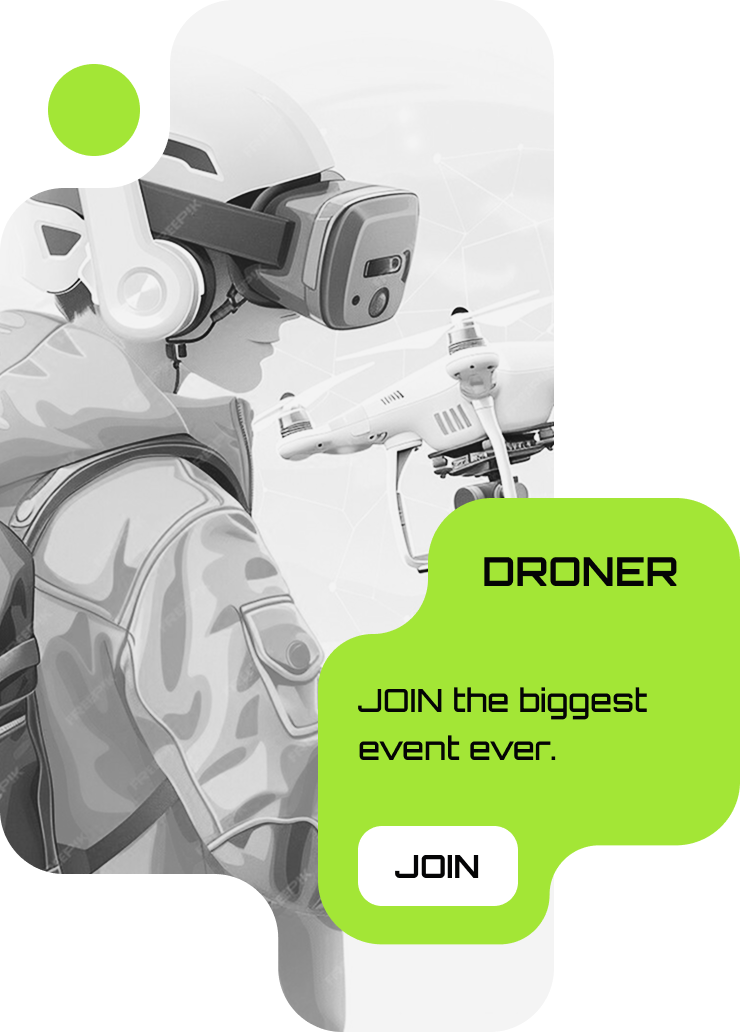
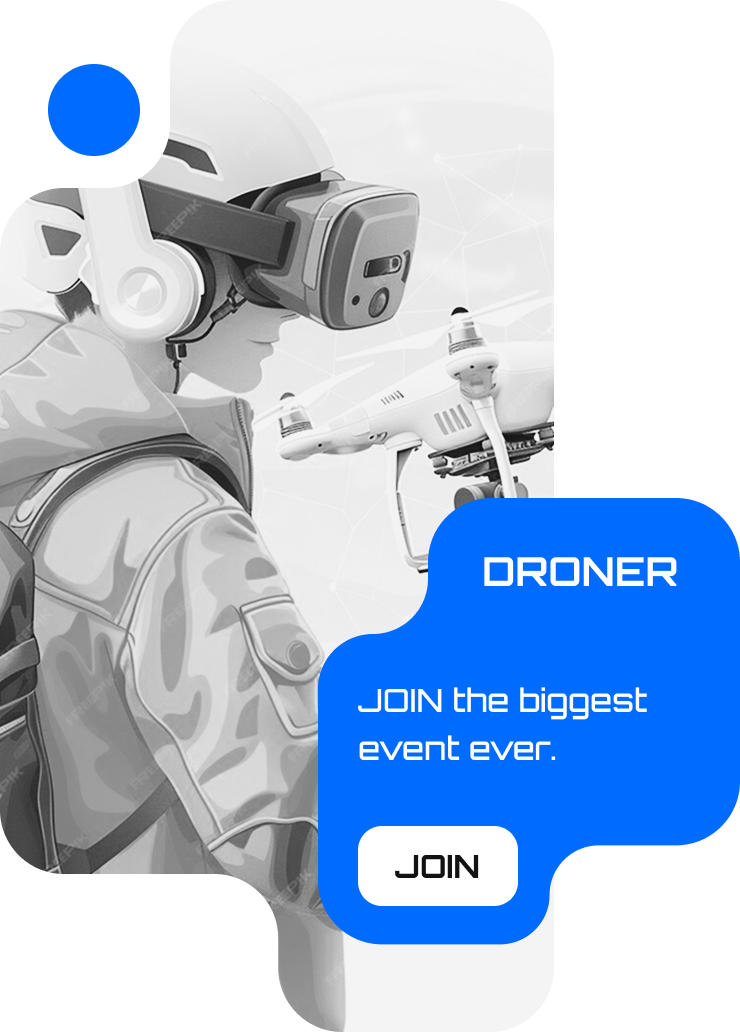
updates

Changed region(s): [[0.4041, 0.4651, 1.0, 0.9302], [0.0622, 0.062, 0.1865, 0.155]]

diff --git a/src/components/Footer.tsx b/src/components/Footer.tsx
@@ -27,15 +27,15 @@ export default function Footer() {
           />
           <defs>
             <linearGradient id="gradient" x1="0%" y1="0%" x2="100%" y2="0%">
-              <stop offset="0%" stopColor="#a3e635" stopOpacity="0" />
-              <stop offset="50%" stopColor="#a3e635" stopOpacity="1" />
-              <stop offset="100%" stopColor="#a3e635" stopOpacity="0" />
+              <stop offset="0%" stopColor="#006BFF" stopOpacity="0" />
+              <stop offset="50%" stopColor="#006BFF" stopOpacity="1" />
+              <stop offset="100%" stopColor="#006BFF" stopOpacity="0" />
             </linearGradient>
           </defs>
         </svg>
 
         {/* Extra glow effect */}
-        <div className="absolute inset-x-0 top-0 h-px bg-lime-400 blur-md" />
+        <div className="absolute inset-x-0 top-0 h-px bg-[#006BFF] blur-md" />
       </div>
 
       <div className="relative container mx-auto px-8 py-20 pt-32">
@@ -43,21 +43,14 @@ export default function Footer() {
           {/* Logo & Copyright */}
           <div className="flex flex-col items-start space-y-8">
             <div className="flex items-center gap-3">
-              <img src={viteImage} className="w-5 h-8" />
-              <span
-                className={`text-2xl font-bold tracking-wider ${
-                  isDark ? "text-white" : "text-black"
-                }`}
-              >
-                QUAD DRONE
-              </span>
+              <img src={viteImage} className="w-64 h-8" />
             </div>
             <p
               className={`text-sm leading-relaxed ${
                 isDark ? "text-gray-500" : "text-gray-700"
               }`}
             >
-              2024 FlyDrone, Inc.
+              2024 Aero Emperor, Inc.
               <br />
               All rights reserved.
             </p>
@@ -65,7 +58,7 @@ export default function Footer() {
 
           {/* Company */}
           <div>
-            <h3 className="text-lime-400 font-bold text-sm tracking-wider mb-6">
+            <h3 className="text-[#006BFF] font-bold text-sm tracking-wider mb-6">
               Company
             </h3>
             <ul
@@ -92,7 +85,7 @@ export default function Footer() {
 
           {/* Resources */}
           <div>
-            <h3 className="text-lime-400 font-bold text-sm tracking-wider mb-6">
+            <h3 className="text-[#006BFF] font-bold text-sm tracking-wider mb-6">
               Resources
             </h3>
             <ul
@@ -117,7 +110,7 @@ export default function Footer() {
 
           {/* Connect */}
           <div>
-            <h3 className="text-lime-400 font-bold text-sm tracking-wider mb-6">
+            <h3 className="text-[#006BFF] font-bold text-sm tracking-wider mb-6">
               Connect
             </h3>
             <ul
@@ -155,7 +148,7 @@ export default function Footer() {
               : "border-black/10 text-gray-600"
           }`}
         >
-          © 2024 FlyDrone, Inc. All rights reserved.
+          © 2024 Aero Emperor, Inc. All rights reserved.
         </div>
       </div>
     </footer>

diff --git a/src/components/HeroSection.tsx b/src/components/HeroSection.tsx
@@ -45,9 +45,10 @@ export default function HeroSection() {
       </motion.div>
 
       {/* Main Content */}
-      <div className="relative w-full pt-[120px] md:pt-[0px]  overflow-hidden">
+      <div className="relative w-full pt-[120px] md:pt-[0px]  p-0 overflow-hidden">
         {/* Background Overlay */}
-        <div className="absolute inset-0 md:bg-transparent bg-black/40  z-0"></div>
+{/* TRUE Full-Width Overlay */}
+<div className="absolute inset-0 w-screen left-1/2 right-1/2 -translate-x-1/2 bg-black/40 md:bg-transparent z-0"></div>
         <img
           src={currentHeroBg}
           alt="Drone background"
@@ -107,7 +108,7 @@ export default function HeroSection() {
                 <motion.button
                   whileHover={{ scale: 1.05 }}
                   whileTap={{ scale: 0.95 }}
-                  className="px-10 py-4 rounded-2xl text-lg font-bold tracking-wider bg-gray-300 border-2 border-gray-300 text-black hover:bg-white/10 hover:border-emerald-500 transition-all duration-300"
+                  className="px-10 py-4 rounded-2xl text-lg font-bold tracking-wider bg-gray-300 border-2 border-gray-300 text-black  transition-all duration-300"
                 >
                   SHOP DRONES
                 </motion.button>
@@ -142,7 +143,7 @@ export default function HeroSection() {
                 <motion.div
                   animate={{ opacity: [0.4, 0.8, 0.4] }}
                   transition={{ duration: 4, repeat: Infinity }}
-                  className="absolute -inset-4 bg-emerald-500 rounded-full blur-3xl opacity-40 -z-10"
+                  className="absolute -inset-4 rounded-full blur-3xl opacity-40 -z-10"
                 />
               </motion.div>
             </motion.div>

diff --git a/src/components/GlassNavbar.tsx b/src/components/GlassNavbar.tsx
@@ -9,18 +9,12 @@ export default function GlassNavbar() {
   const navItems = ["Drones", "Mission", "About"];
 
   const glassClasses = isDark
-    ? "bg-black/20 backdrop-blur-xl border-gray-700/50 shadow-2xl"
-    : "bg-white/30 backdrop-blur-md border-white/50 shadow-lg";
-
+  ? "bg-black/20 backdrop-blur-xl border-gray-700/50 shadow-2xl"
+  : "bg-black/60 backdrop-blur-lg border-black/10 shadow-xl";
+  
   const textClasses = isDark
     ? "text-white hover:text-lime-400"
     : "text-black hover:text-gray-600";
-
-  const logoTextClasses = isDark ? "text-white" : "text-black";
-
-  const subTitleClasses = isDark
-    ? "text-sm font-semibold leading-none text-gray-300"
-    : "text-sm font-semibold leading-none text-gray-700";
 
   return (
     <nav
@@ -40,15 +34,9 @@ export default function GlassNavbar() {
         <img
           src={quadroLogo}
           alt="Quadro Drone Logo"
-          className={`w-10 h-10 object-contain`}
+          className={`w-72 h-10 object-contain`}
         />
-        <h1
-          className={`text-xl font-extrabold tracking-wider ${logoTextClasses}`}
-        >
-          QUAD
-          <br />
-          <span className={subTitleClasses}>DRONE</span>
-        </h1>
+  
       </div>
 
       <div className="flex items-center gap-12">

diff --git a/src/components/UnleashDrone.tsx b/src/components/UnleashDrone.tsx
@@ -18,7 +18,7 @@ export default function UnleashPage() {
           flex flex-col lg:flex-row items-center justify-center 
           gap-8 lg:gap-0 rounded-[48px] overflow-hidden
           transition-colors duration-300
-          ${isDark ? "bg-lime-500 backdrop-blur-md" : "bg-lime-500"}
+          ${isDark ? "bg-[#006BFF] backdrop-blur-md" : "bg-[#006BFF]"}
         `}
       >
         {/* IMAGE SIDE */}
@@ -58,8 +58,8 @@ export default function UnleashPage() {
               transition-colors duration-300
               ${
                 isDark
-                  ? "bg-white text-lime-700 hover:bg-gray-200"
-                  : "bg-black text-lime-300 hover:bg-gray-900"
+                  ? "bg-white text-[#fff] hover:bg-gray-200"
+                  : "bg-black text-[#fff] hover:bg-gray-900"
               }
             `}
           >

diff --git a/src/components/GuardDroneNavbar.tsx b/src/components/GuardDroneNavbar.tsx
@@ -33,12 +33,8 @@ export default function HeroNavbar() {
             <div className="w-full max-w-[700px] flex items-center justify-between gap-4 mr-[64px]">
               {/* LEFT SIDE: Logo + Text */}
               <div className="flex items-center gap-2">
-                <img src={viteImage} className="w-5 h-8" />
-                <h1 className="text-[14px] font-bold tracking-wider uppercase">
-                  Quad
-                  <br />
-                  Drone
-                </h1>
+                <img src={viteImage} className="w-64 h-8" />
+            
               </div>
 
               {/* RIGHT SIDE: Nav Links */}

diff --git a/src/components/DroneProductSection.tsx b/src/components/DroneProductSection.tsx
@@ -1,5 +1,5 @@
 
-import droneBg from "../assets/drone-t021-bg.png";
+import droneBg from "../assets/drone-t025-bg.png";
 import { useTheme } from "../contexts/ThemeProvider";
 
 export default function DroneShowcase() {

diff --git a/src/components/Header.tsx b/src/components/Header.tsx
@@ -17,7 +17,7 @@ const COLORS = {
   TEXT_SECONDARY_LIGHT: "#444444",
 
   // Accent Color (Neon Green - same for both)
-  ACCENT: "#00FF00",
+  ACCENT: "#006BFF",
 };
 
 const Header: React.FC = () => {
